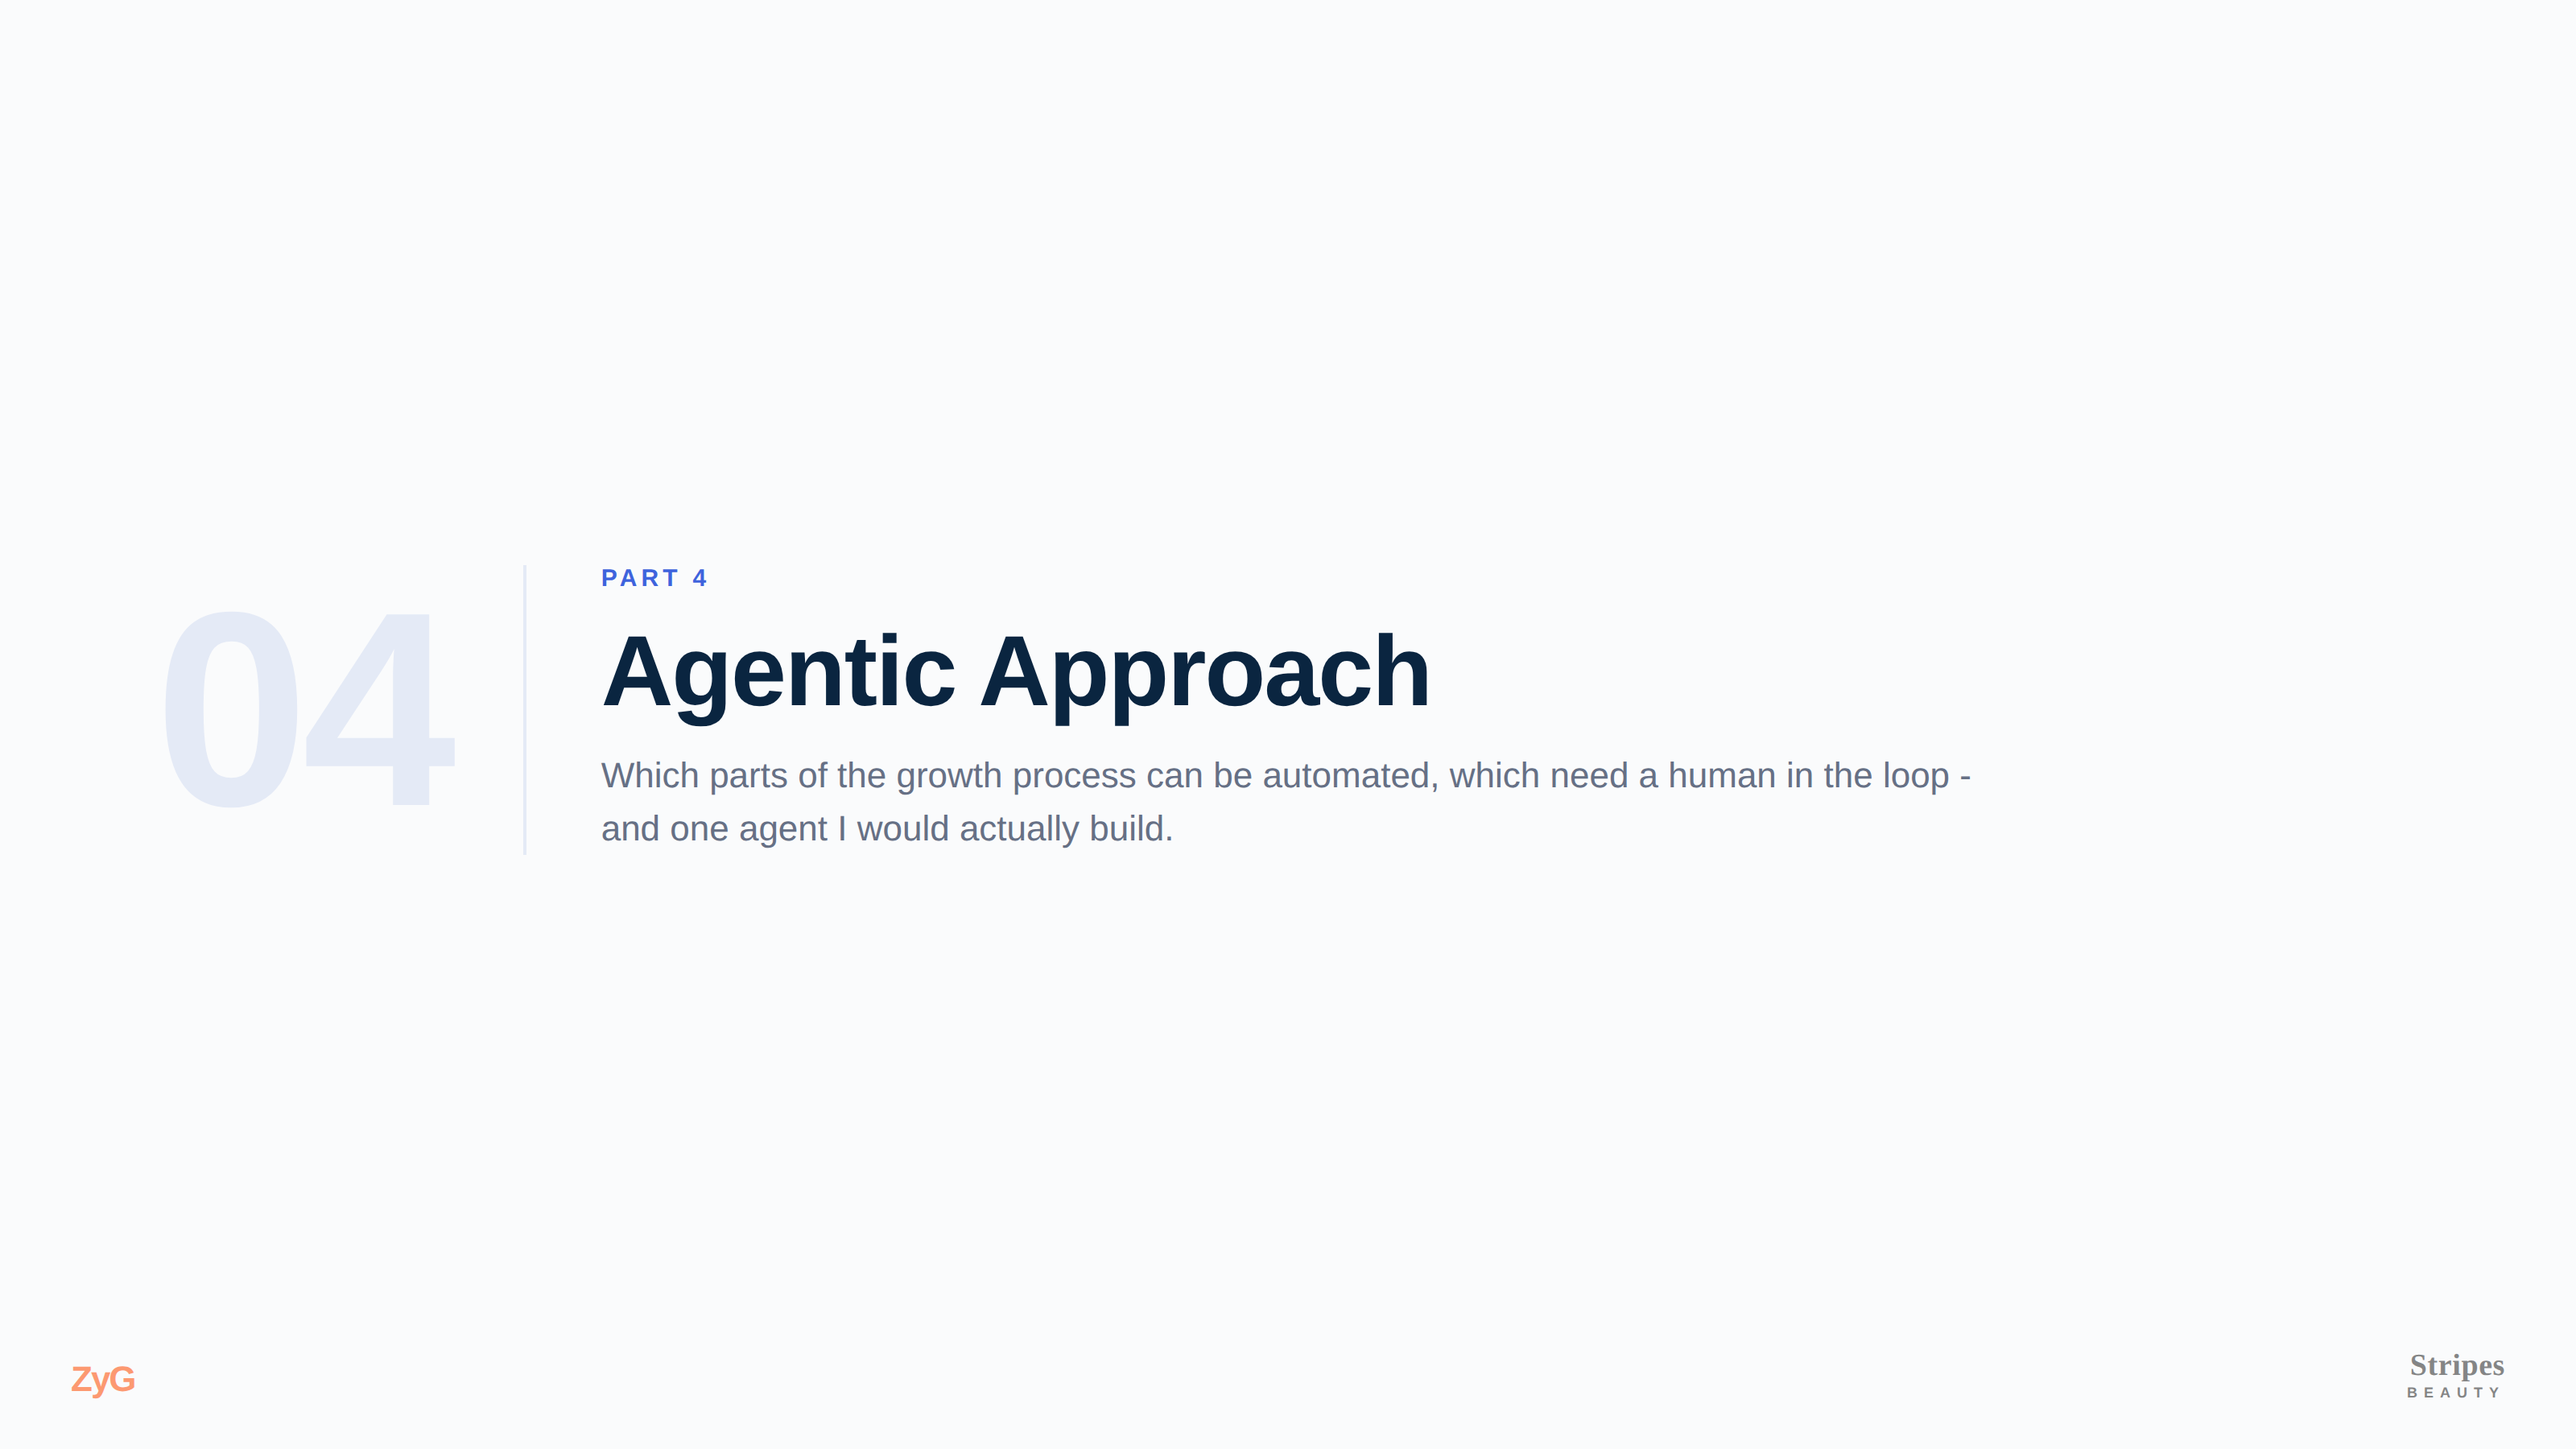
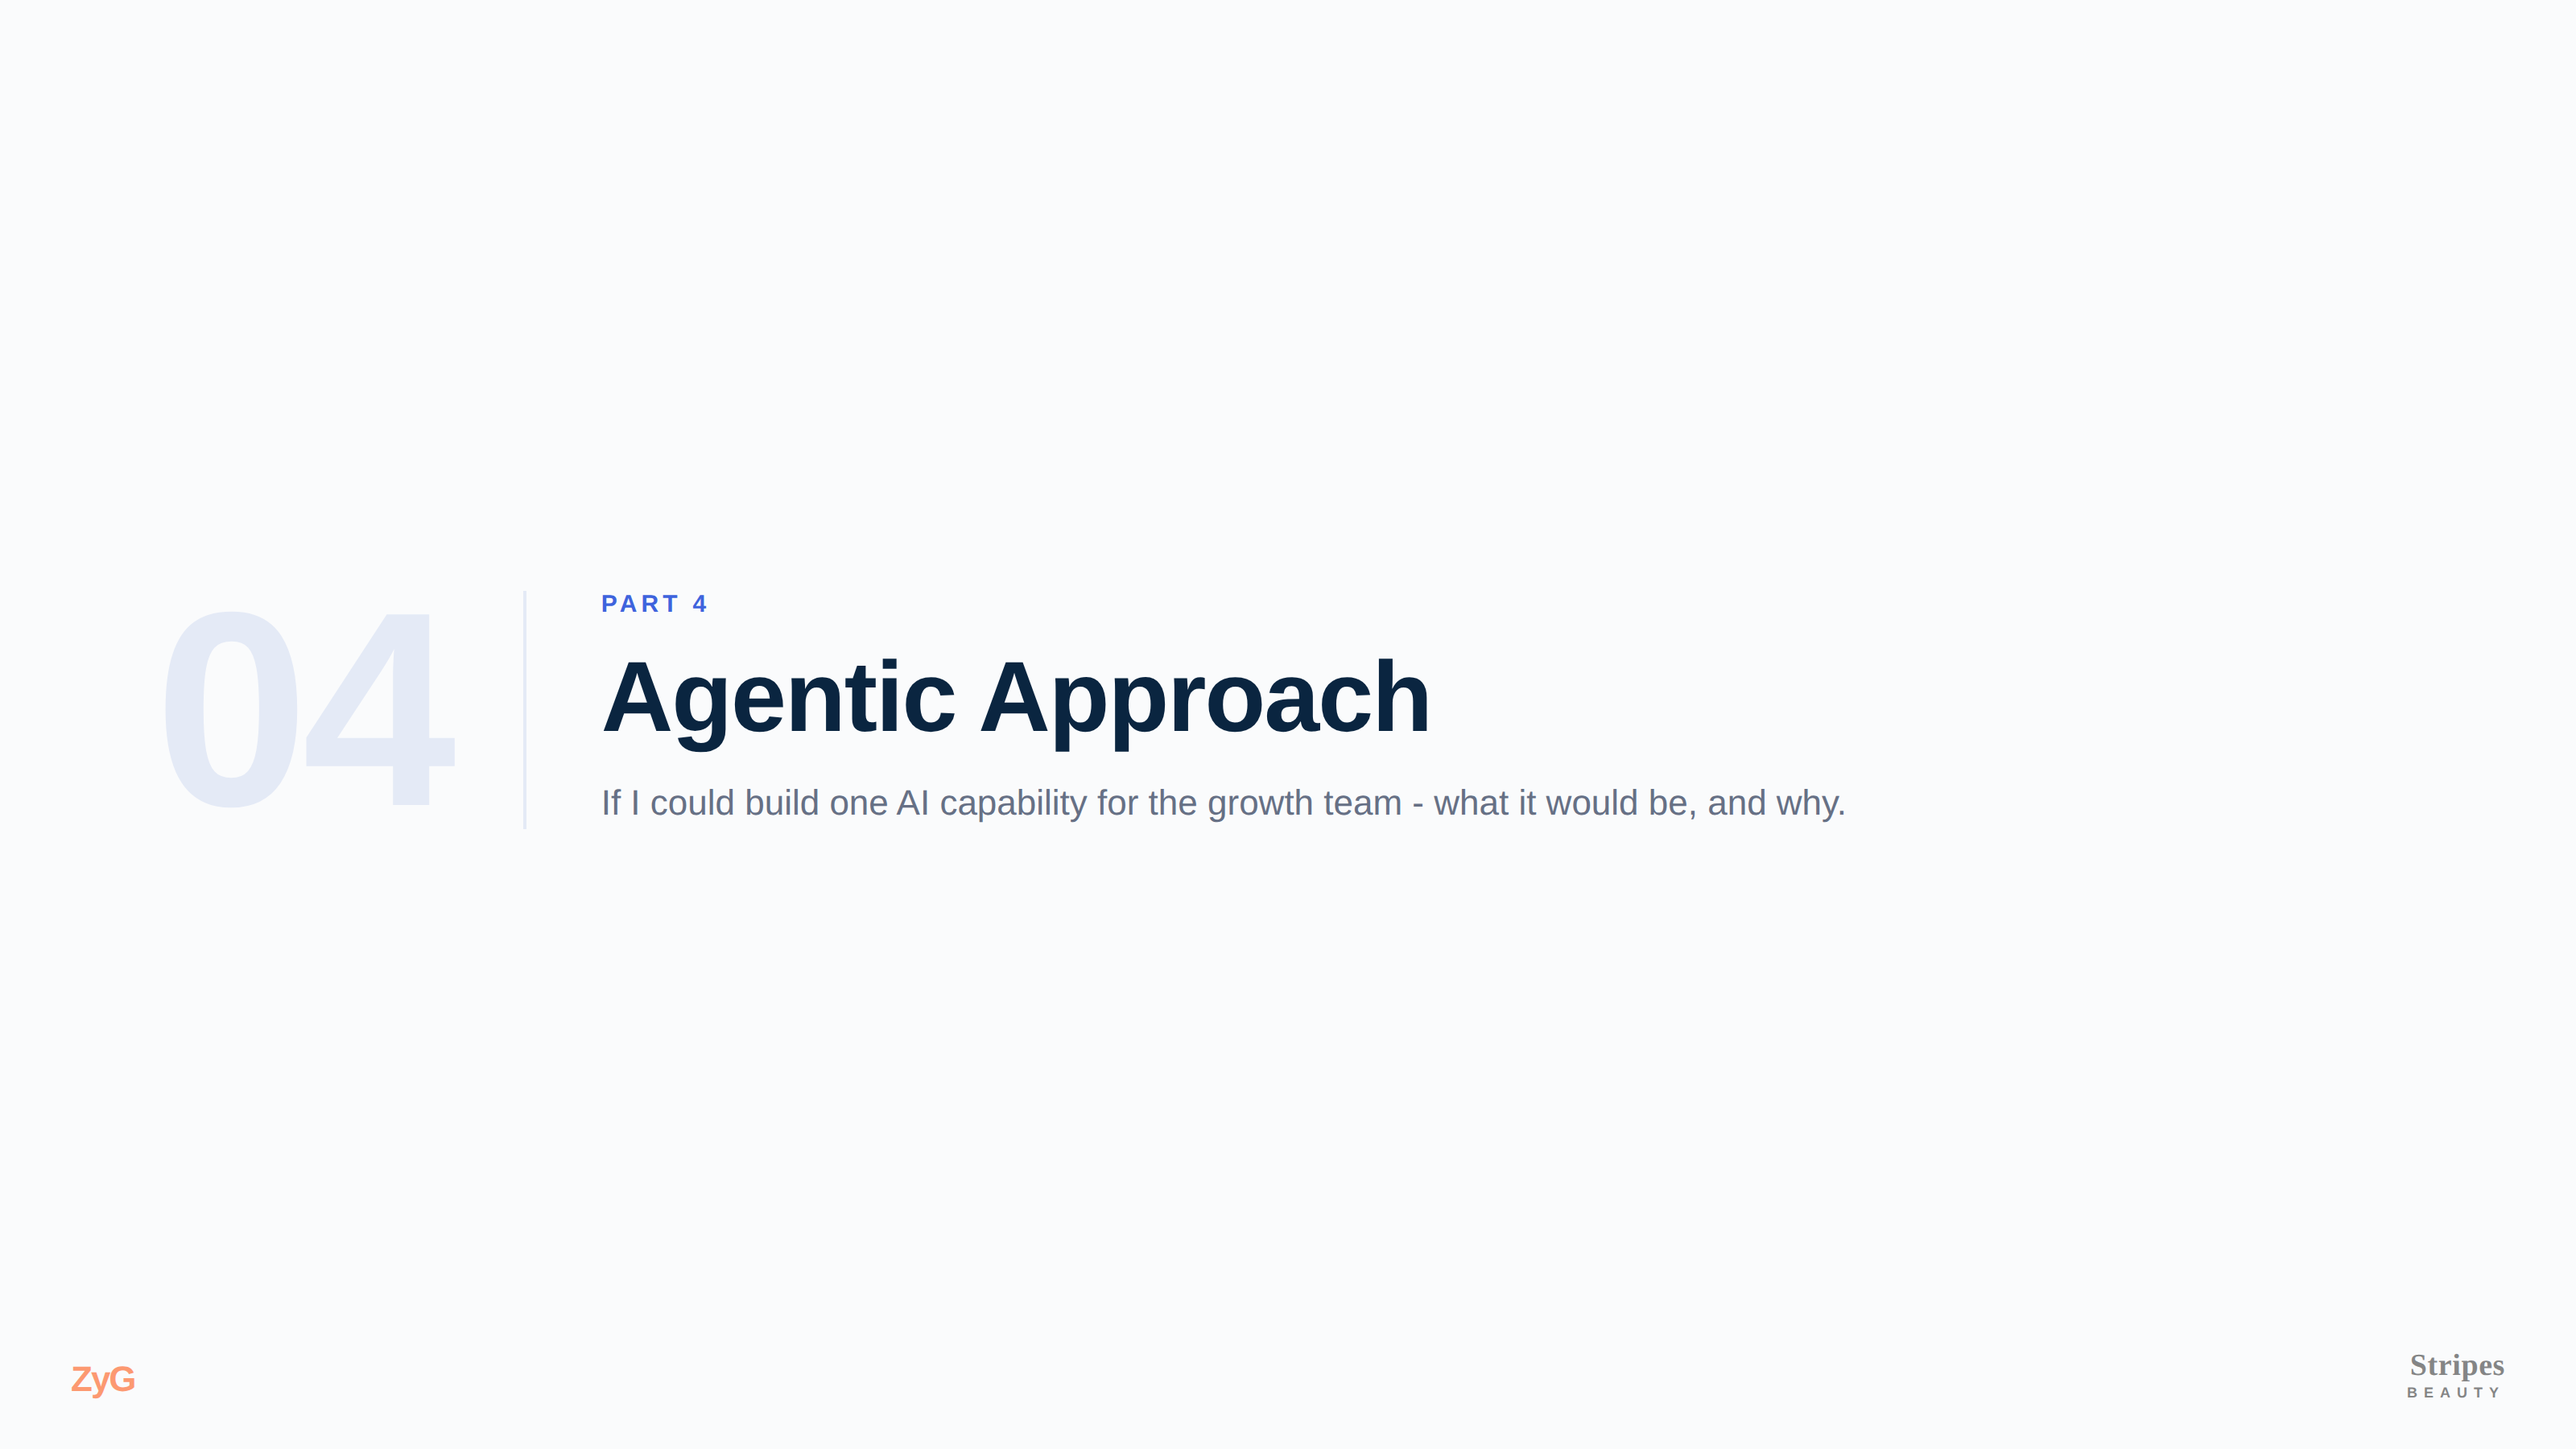
Rethink Part 4 as a story: why -> what -> who decides
Replace workflow-documentation slides with three that each answer a question:
Where can AI create the biggest impact (thesis + opinionated pick), What I'd
build (agent in 3 steps + example experiment-brief mockup), Why a human still
makes the decisions (closing takeaway). Removes the automation-map and
4-step pipeline slides.

Claude-Session: https://claude.ai/code/session_01GoAG3ySswQXo2H1hh5EwTk

Changed region(s): [[0.2188, 0.3733, 0.75, 0.5911]]

diff --git a/diagrams/slides/p4-03-build.html b/diagrams/slides/p4-03-build.html
@@ -1,0 +1,84 @@
+<!doctype html><html><head><meta charset="utf-8"><link rel="stylesheet" href="style.css">
+<style>
+  .stage{display:flex;gap:40px;margin-top:14px;align-items:flex-start;}
+  .left{flex:1;padding-top:10px;}
+  .steps{display:flex;flex-direction:column;gap:0;margin-top:22px;}
+  .step{display:flex;gap:18px;}
+  .step .rail{display:flex;flex-direction:column;align-items:center;}
+  .step .n{width:38px;height:38px;border-radius:11px;background:var(--blue-soft);color:var(--blue);font-weight:700;font-size:16px;display:flex;align-items:center;justify-content:center;flex-shrink:0;}
+  .step .ln{width:2px;flex:1;background:#E4EAF6;margin:6px 0;}
+  .step .body{padding-bottom:26px;}
+  .step h3{font-size:21px;font-weight:700;color:var(--navy);padding-top:6px;}
+  .step p{font-size:15.5px;color:var(--muted);line-height:1.5;margin-top:7px;max-width:520px;}
+  .step p b{color:var(--navy);font-weight:700;}
+  .step:last-child .body{padding-bottom:0;}
+  .step:last-child .ln{display:none;}
+
+  /* the brief mockup */
+  .briefwrap{flex:0 0 470px;}
+  .brief{background:#fff;border:1px solid var(--line);border-radius:18px;box-shadow:0 18px 50px rgba(16,42,77,.12);padding:30px 34px;}
+  .brief .bh{display:flex;align-items:center;justify-content:space-between;}
+  .brief .bt{font-size:13px;font-weight:700;letter-spacing:1.8px;text-transform:uppercase;color:var(--blue);}
+  .brief .status{font-size:11px;font-weight:700;letter-spacing:.6px;text-transform:uppercase;color:#B15738;background:#FCF3EF;border:1px solid #F1D8CE;border-radius:999px;padding:5px 12px;}
+  .brief .title{font-size:20px;font-weight:700;color:var(--navy);margin-top:14px;line-height:1.3;}
+  .brief .rows{margin-top:18px;display:flex;flex-direction:column;gap:13px;}
+  .brief .br{display:flex;gap:12px;align-items:baseline;}
+  .brief .bl{flex:0 0 118px;font-size:11px;font-weight:700;letter-spacing:1px;text-transform:uppercase;color:var(--faint);}
+  .brief .bv{font-size:14px;color:var(--ink);line-height:1.45;}
+  .brief .bv b{color:var(--navy);font-weight:700;}
+  .caption{text-align:center;margin-top:14px;font-size:13px;color:var(--faint);font-weight:600;}
+</style></head><body>
+<div class="slide">
+  <div class="kicker">What I'd Build</div>
+  <div class="h1">A Growth Intelligence Agent</div>
+  <div class="lead" style="font-size:17.5px;">It watches the market and turns meaningful competitor moves into ready-to-review experiment briefs.</div>
+
+  <div class="stage">
+    <div class="left">
+      <div class="steps">
+        <div class="step">
+          <div class="rail"><span class="n">1</span><span class="ln"></span></div>
+          <div class="body">
+            <h3>It watches the market</h3>
+            <p>Competitor sites, Meta Ads Library, pricing, offers and funnels - <b>continuously</b>, not when someone finds the time.</p>
+          </div>
+        </div>
+        <div class="step">
+          <div class="rail"><span class="n">2</span><span class="ln"></span></div>
+          <div class="body">
+            <h3>It filters what matters</h3>
+            <p>Most changes are noise. It flags the ones that matter - a new offer, a new value proposition, <b>several competitors moving the same way</b> - and checks they're relevant to us.</p>
+          </div>
+        </div>
+        <div class="step">
+          <div class="rail"><span class="n">3</span></div>
+          <div class="body">
+            <h3>It hands the team a brief, not an alert</h3>
+            <p>Every recommendation arrives as an <b>experiment brief</b> - reviewed and approved by a PM before anything ships.</p>
+          </div>
+        </div>
+      </div>
+    </div>
+
+    <div class="briefwrap">
+      <div class="brief">
+        <div class="bh">
+          <span class="bt">Experiment Brief</span>
+          <span class="status">Awaiting PM review</span>
+        </div>
+        <div class="title">Competitors are moving to symptom-quiz entry flows</div>
+        <div class="rows">
+          <div class="br"><span class="bl">Insight</span><span class="bv">3 of 8 tracked competitors launched a quiz flow this quarter.</span></div>
+          <div class="br"><span class="bl">Assumption</span><span class="bv">Guided entry converts colder traffic better than a static PDP.</span></div>
+          <div class="br"><span class="bl">Hypothesis</span><span class="bv">A symptom-based entry step will lift PDP view rate.</span></div>
+          <div class="br"><span class="bl">Suggested test</span><span class="bv">Homepage popup A/B - discovery step vs. current.</span></div>
+          <div class="br"><span class="bl">Success metric</span><span class="bv"><b>PDP view rate</b>, purchase conversion as guardrail.</span></div>
+        </div>
+      </div>
+      <div class="caption">Example output - the agent drafts it, the PM decides.</div>
+    </div>
+  </div>
+
+  <div class="foot"><div class="zyg">ZyG</div><div class="stripes"><div class="word">Stripes</div><div class="beauty">BEAUTY</div></div></div>
+</div>
+</body></html>

diff --git a/diagrams/slides/p4-02-impact.html b/diagrams/slides/p4-02-impact.html
@@ -1,0 +1,59 @@
+<!doctype html><html><head><meta charset="utf-8"><link rel="stylesheet" href="style.css">
+<style>
+  .thesis{margin-top:24px;background:var(--blue-soft);border:1px solid #DCE3FB;border-radius:18px;padding:32px 38px;}
+  .thesis .t{font-size:30px;font-weight:700;color:var(--navy);line-height:1.35;letter-spacing:-.4px;max-width:1280px;}
+  .thesis .t b{color:var(--blue);}
+
+  .two{display:flex;gap:24px;margin-top:26px;align-items:stretch;}
+  .box{flex:1;padding:28px 30px;}
+  .box .cap{font-size:12px;font-weight:700;letter-spacing:1.8px;text-transform:uppercase;color:var(--faint);}
+  .box h3{font-size:22px;font-weight:700;color:var(--navy);margin-top:12px;line-height:1.25;}
+  .items{margin-top:16px;display:flex;flex-wrap:wrap;gap:9px;}
+  .it{font-size:14.5px;font-weight:600;color:var(--navy);background:#F7F9FC;border:1px solid var(--line-2);border-radius:999px;padding:9px 16px;}
+  .box p{font-size:15.5px;color:var(--muted);line-height:1.5;margin-top:14px;}
+  .box p b{color:var(--navy);font-weight:700;}
+  .box.gap{background:#fff;border:1.5px solid #C7D2F7;}
+  .box.gap .cap{color:var(--blue);}
+
+  .pick{margin-top:24px;background:var(--navy);border-radius:16px;padding:22px 30px;display:flex;align-items:center;gap:18px;}
+  .pick .lbl{font-size:12px;font-weight:700;letter-spacing:1.8px;text-transform:uppercase;color:#9FC0FF;flex-shrink:0;}
+  .pick .t{font-size:19px;color:#EAF1FF;font-weight:500;line-height:1.45;}
+  .pick .t b{color:#fff;font-weight:700;}
+</style></head><body>
+<div class="slide">
+  <div class="kicker">The Opportunity</div>
+  <div class="h1">Where can AI create the biggest impact?</div>
+
+  <div class="thesis">
+    <div class="t">Building things is getting easier. <b>Deciding what to build next</b> is becoming the real competitive advantage.</div>
+  </div>
+
+  <div class="two">
+    <div class="box card">
+      <div class="cap">Already fast with AI</div>
+      <h3>Execution</h3>
+      <div class="items">
+        <span class="it">Creative angles</span>
+        <span class="it">Landing pages</span>
+        <span class="it">Funnel analysis</span>
+        <span class="it">Test variants</span>
+      </div>
+      <p>All of these are becoming cheap and fast to produce. Speed here is quickly becoming <b>table stakes</b>.</p>
+    </div>
+
+    <div class="box gap card">
+      <div class="cap">Still slow and manual</div>
+      <h3>Knowing what to test next</h3>
+      <p>Competitive research today is <b>manual, occasional and reactive</b> - someone checks a few competitor sites when they find the time.</p>
+      <p>Meanwhile, the market moves every week: new offers, new funnels, new messaging.</p>
+    </div>
+  </div>
+
+  <div class="pick">
+    <span class="lbl">My pick</span>
+    <div class="t">So instead of building faster, I'd automate the input: <b>what should we test next?</b></div>
+  </div>
+
+  <div class="foot"><div class="zyg">ZyG</div><div class="stripes"><div class="word">Stripes</div><div class="beauty">BEAUTY</div></div></div>
+</div>
+</body></html>

diff --git a/diagrams/slides/p4-04-human.html b/diagrams/slides/p4-04-human.html
@@ -1,0 +1,44 @@
+<!doctype html><html><head><meta charset="utf-8"><link rel="stylesheet" href="style.css">
+<style>
+  .big{margin-top:30px;font-size:40px;font-weight:700;color:var(--navy);letter-spacing:-.8px;line-height:1.2;}
+  .big b{color:var(--blue);}
+  .why3{display:flex;gap:22px;margin-top:38px;align-items:stretch;}
+  .w{flex:1;padding:26px 28px 28px;}
+  .w h3{font-size:18px;font-weight:700;color:var(--navy);line-height:1.3;}
+  .w p{font-size:15px;color:var(--muted);line-height:1.5;margin-top:10px;}
+  .w p b{color:var(--navy);font-weight:700;}
+
+  .close{margin-top:34px;background:var(--navy);border-radius:18px;padding:30px 38px;}
+  .close .lbl{font-size:12px;font-weight:700;letter-spacing:2px;text-transform:uppercase;color:#9FC0FF;}
+  .close .t{font-size:24px;font-weight:600;color:#EAF1FF;line-height:1.4;margin-top:10px;max-width:1200px;}
+  .close .t b{color:#fff;font-weight:700;}
+</style></head><body>
+<div class="slide">
+  <div class="kicker">The Decision Point</div>
+  <div class="h1">Why a human still makes the decisions</div>
+
+  <div class="big">The agent proposes. <b>The PM decides.</b></div>
+
+  <div class="why3">
+    <div class="w card">
+      <h3>It removes the busywork, not the judgment</h3>
+      <p>The agent takes over the <b>monitoring and drafting</b> - the part nobody has time for. The thinking stays with the team.</p>
+    </div>
+    <div class="w card">
+      <h3>Brand and positioning are human calls</h3>
+      <p>What Stripes says, promises and tests in front of customers is a <b>judgment call</b> - not something to delegate to a model.</p>
+    </div>
+    <div class="w card">
+      <h3>Every brief is reviewed before it ships</h3>
+      <p>Nothing runs automatically. A PM approves, edits or rejects <b>every recommendation</b>.</p>
+    </div>
+  </div>
+
+  <div class="close">
+    <div class="lbl">The takeaway</div>
+    <div class="t">Building things is getting easier. <b>Knowing what to build next is the real advantage</b> - and that's the part this agent automates.</div>
+  </div>
+
+  <div class="foot"><div class="zyg">ZyG</div><div class="stripes"><div class="word">Stripes</div><div class="beauty">BEAUTY</div></div></div>
+</div>
+</body></html>

diff --git a/diagrams/slides/p4-01-divider.html b/diagrams/slides/p4-01-divider.html
@@ -5,7 +5,7 @@
     <div style="border-left:2px solid #E4EAF6;padding-left:46px;">
       <div class="kicker">Part 4</div>
       <div class="h1" style="font-size:62px;max-width:960px;margin-top:16px;">Agentic Approach</div>
-      <div class="lead" style="font-size:22px;max-width:860px;">Which parts of the growth process can be automated, which need a human in the loop - and one agent I would actually build.</div>
+      <div class="lead" style="font-size:22px;max-width:860px;">If I could build one AI capability for the growth team - what it would be, and why.</div>
     </div>
   </div>
   <div class="foot"><div class="zyg">ZyG</div><div class="stripes"><div class="word">Stripes</div><div class="beauty">BEAUTY</div></div></div>
